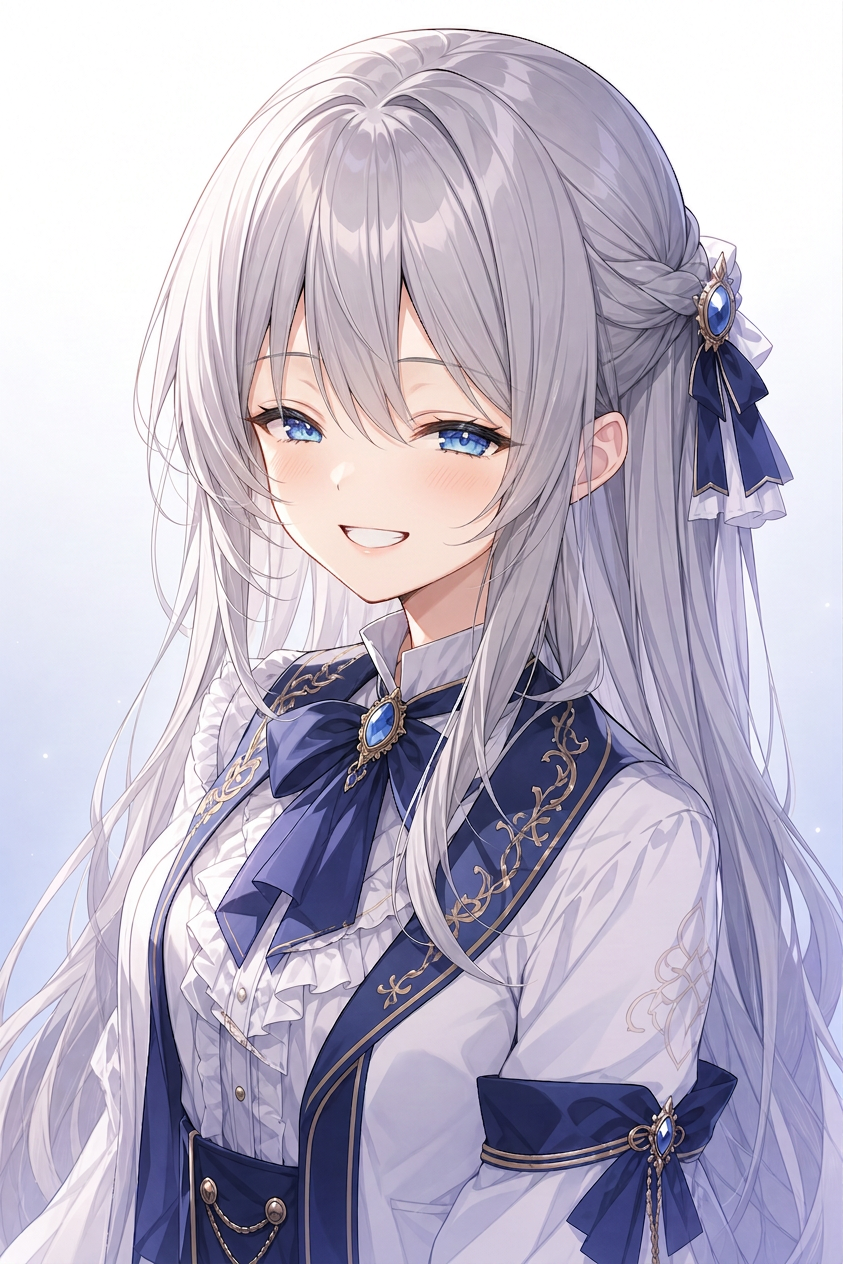
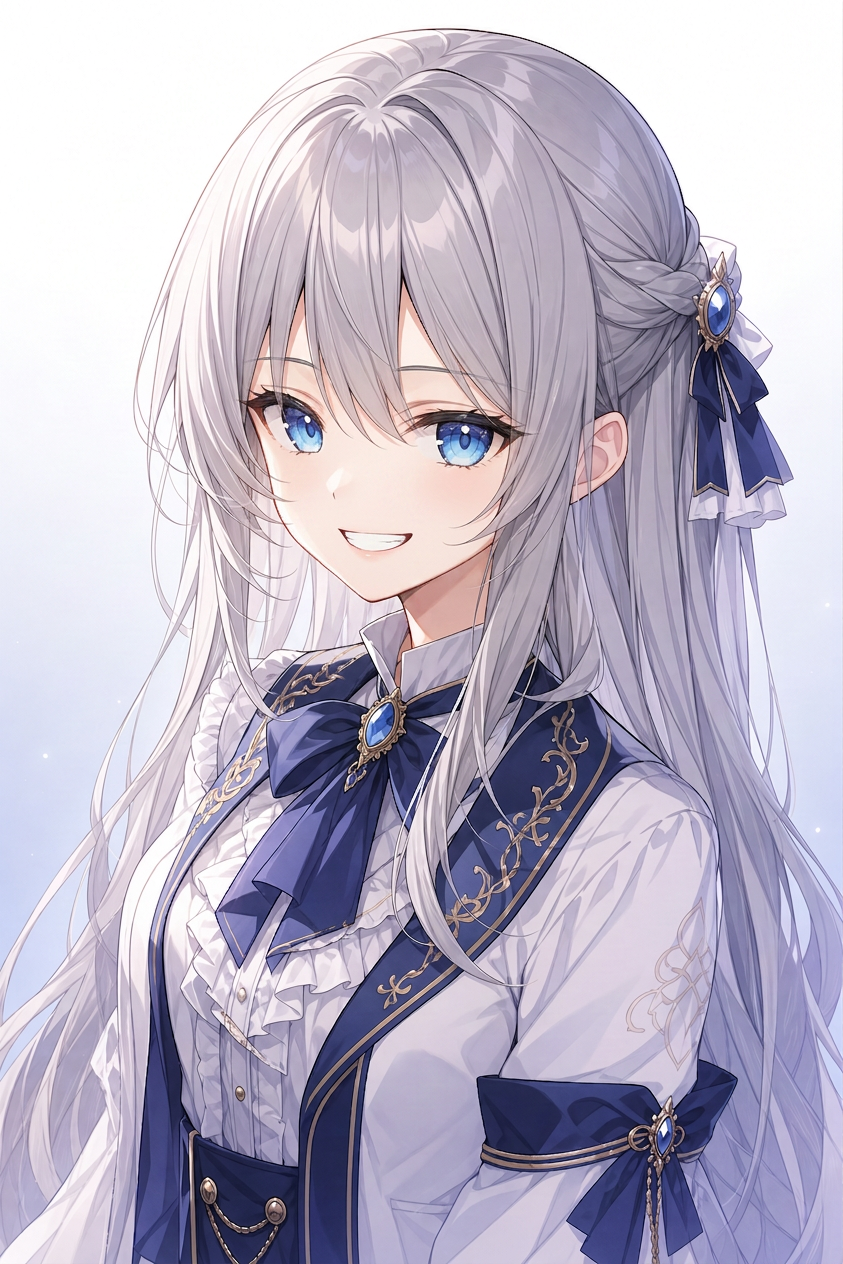
Redo teenage happy: toothy smile, same eyes, no extra blush.

diff --git a/assets/portraits/sylvia_15_diffs/README.md b/assets/portraits/sylvia_15_diffs/README.md
@@ -14,5 +14,6 @@
 - 未出图：worried / embarrassed / pout
 
 ## happy
-- happy_01 ~ happy_08：v3_06 底图，只改表情为 happy expression
-- 预选 happy_01 进 named/sylvia_teenage_happy.png
+- happy_01 ~ happy_08：第一批（有脸红 / 眼睛变弯，已淘汰）
+- happy_v2_01 ~ happy_v2_03：按用户要求重做（不脸红、眼睛不变、露齿笑、背景不变）
+- 预选 happy_v2_01（_diff_review/happy_10）进 named/sylvia_teenage_happy.png
